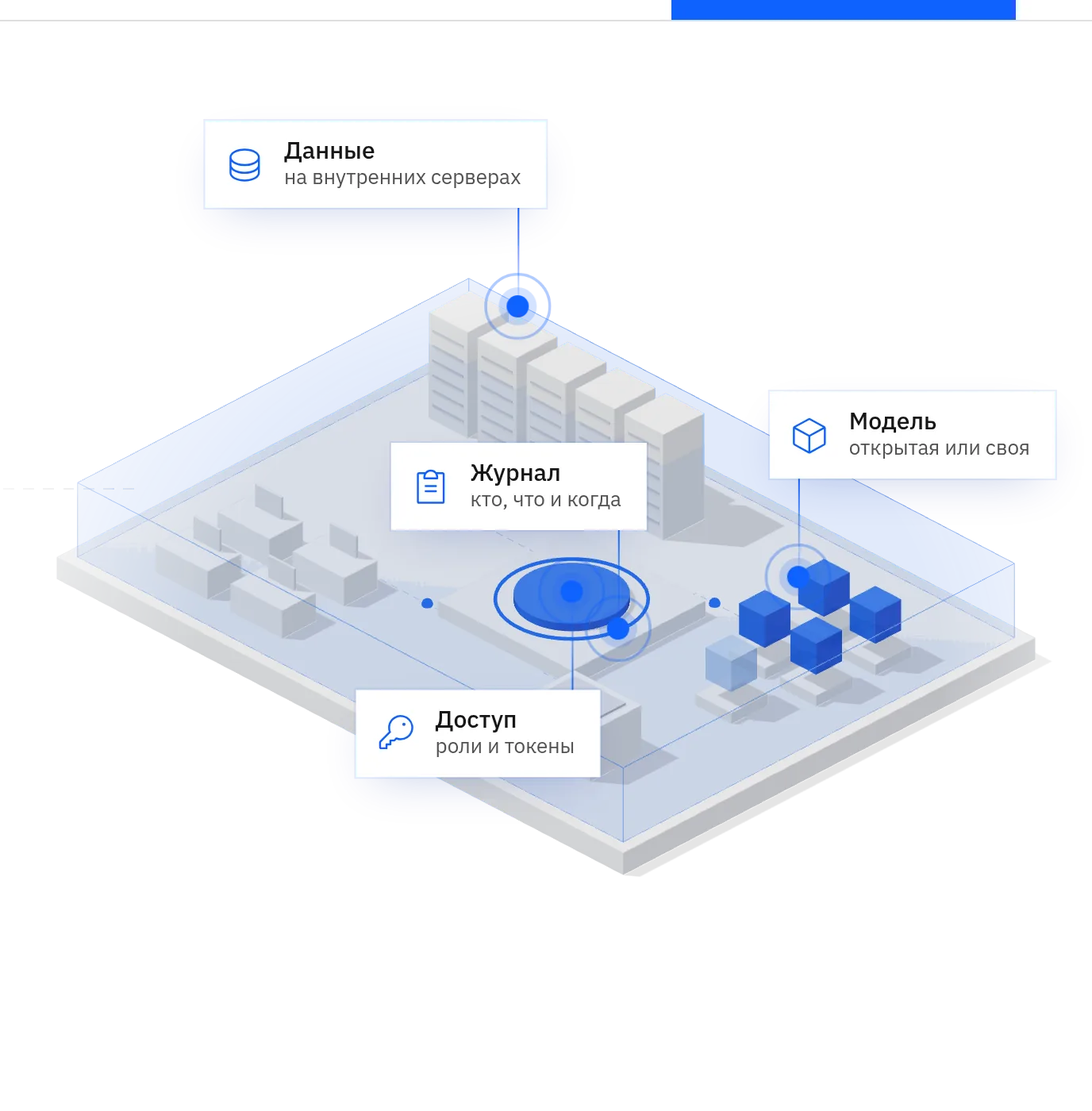
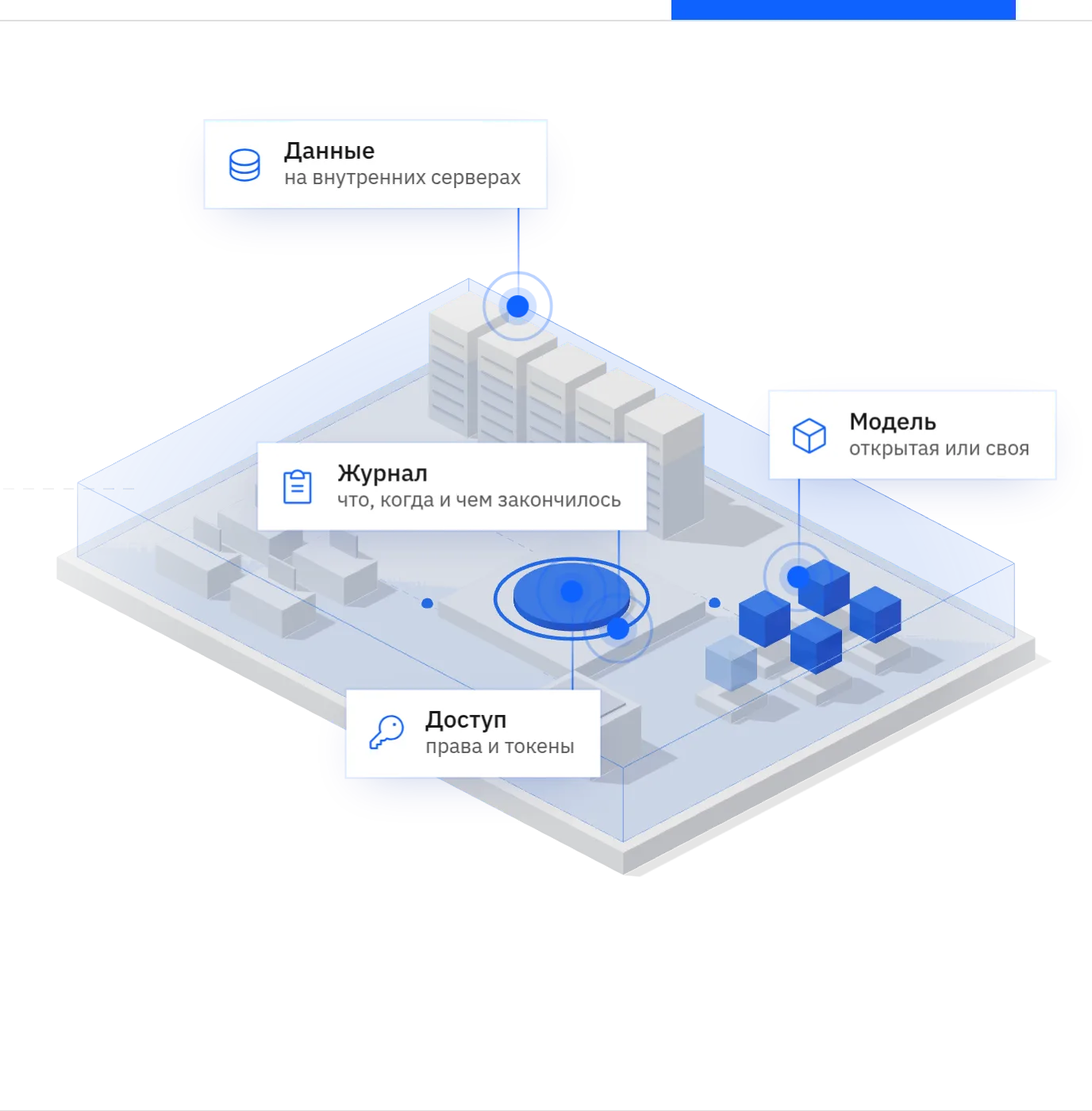
/it под запуск в декабре, оглавление, ссылки с главной

diff --git a/it.html b/it.html
@@ -37,19 +37,29 @@
     <p class="crumb"><a href="index.html">Главная</a> / Для ИТ и безопасности</p>
     <div class="txt">
     <h1>Атриум для ИТ и безопасности</h1>
-    <p class="sub">Как устроен Атриум, что со службой безопасности и когда будут документы для закупки. У каждого пункта статус: есть, в работе или план со сроком.</p>
+    <p class="sub">Как устроен Атриум, что со службой безопасности и когда будут документы для закупки. У каждого пункта статус: есть или срок.</p>
     <div class="ctas"><a class="btn primary" href="mailto:info@atrium-ai.ru">Написать нам</a><a class="btn" href="#tech">Техника и статусы</a></div>
     </div>
     <div class="scene" data-view="all" role="img" aria-label="Схема: внутри периметра компании стоят серверы, Атриум, журнал, модели и рабочие места команд">
     <canvas></canvas><picture class="still"><source media="(max-width:560px)" srcset="assets/scene/it-m.webp"><source media="(max-width:1100px)" srcset="assets/scene/it-t.webp"><img src="assets/scene/it.webp" alt="" loading="lazy"></picture>
     <div class="pin l" data-a="data"><i class="dot"></i><i class="stem"></i><div class="tag"><i class="ic i-data"></i><div><b>Данные</b><span>на внутренних серверах</span></div></div></div>
-    <div class="pin l d" data-a="access"><i class="dot"></i><i class="stem"></i><div class="tag"><i class="ic i-key"></i><div><b>Доступ</b><span>роли и токены</span></div></div></div>
+    <div class="pin l d" data-a="access"><i class="dot"></i><i class="stem"></i><div class="tag"><i class="ic i-key"></i><div><b>Доступ</b><span>права и токены</span></div></div></div>
     <div class="pin" data-a="model"><i class="dot"></i><i class="stem"></i><div class="tag"><i class="ic i-model"></i><div><b>Модель</b><span>открытая или своя</span></div></div></div>
-    <div class="pin d" data-a="trace"><i class="dot"></i><i class="stem"></i><div class="tag"><i class="ic i-log"></i><div><b>Журнал</b><span>кто, что и когда</span></div></div></div>
+    <div class="pin d" data-a="trace"><i class="dot"></i><i class="stem"></i><div class="tag"><i class="ic i-log"></i><div><b>Журнал</b><span>что, когда и чем закончилось</span></div></div></div>
     <p class="cap">Схема</p>
   </div>
   </div>
 </div></div>
+
+<nav class="toc" aria-label="Оглавление страницы"><div class="w"><ul>
+  <li><a href="#how">Как работает</a></li>
+  <li><a href="#tech">Техника</a></li>
+  <li><a href="#servers">Серверы</a></li>
+  <li><a href="#security">Безопасность</a></li>
+  <li><a href="#not-yet">Чего пока нет</a></li>
+  <li><a href="#buy">Закупка</a></li>
+  <li><a href="#faq">Вопросы</a></li>
+</ul></div></nav>
 
 <section id="how" class="w" aria-labelledby="h-how">
   <div class="grid">
@@ -57,7 +67,7 @@
     <div class="sec-body"><p class="lead">Работа с моделями идёт в браузере, без ручной настройки серверов.</p></div>
     <ol class="ladder four">
       <li><h3>Добавить</h3><p>Команда указывает, где лежат файлы модели. Модель появляется в общем списке.</p></li>
-      <li><h3>Проверить</h3><p>При регистрации Атриум проверяет, что файлы модели на месте и читаются. Если нет, модель не зарегистрируется, причина попадёт в журнал. Содержимое файлов не проверяется.</p></li>
+      <li><h3>Проверить</h3><p>При добавлении Атриум проверяет, что файлы модели на месте и читаются. Если нет, модель не добавится. Содержимое файлов не проверяется.</p></li>
       <li><h3>Запустить</h3><p>Запуск и остановка одной кнопкой.</p></li>
       <li><h3>Подключить</h3><p>Команда открывает модели HTTPS-адрес, программы обращаются к нему с токеном. Пока адрес не открыт, модель снаружи недоступна.</p></li>
     </ol>
@@ -72,16 +82,16 @@
       <thead><tr><th>Что</th><th>Как</th><th>Статус</th></tr></thead>
       <tbody>
         <tr><td>Где работает</td><td>В Kubernetes компании, на любых её серверах. Проверено на Linux. После установки интернет не нужен</td><td><span class="st yes">Есть</span></td></tr>
-        <tr><td>Поставка вместе с Kubernetes</td><td>Для серверов, где Kubernetes ещё нет: Атриум и Kubernetes ставятся одним комплектом</td><td><span class="st">IV кв. 2026</span></td></tr>
-        <tr><td>Какие модели</td><td>Предиктивные (прогнозы, оценки, классификация), открытые и собственные. На серверах без видеокарт, с видеокартами в проверке</td><td><span class="st yes">Есть</span></td></tr>
-        <tr><td>Генеративные модели</td><td>Движки в поставке есть, они же дают адрес в формате OpenAI. Прогон на стенде с видеокартой впереди</td><td><span class="st work">В проверке</span></td></tr>
-        <tr><td>Форматы моделей</td><td>scikit-learn проверен. XGBoost, LightGBM, ONNX, PyTorch и TensorFlow проверяются</td><td><span class="st work">В проверке</span></td></tr>
+        <tr><td>Поставка вместе с Kubernetes</td><td>Для серверов, где Kubernetes ещё нет: Атриум и Kubernetes ставятся одним комплектом</td><td><span class="st yes">Есть</span></td></tr>
+        <tr><td>Какие модели</td><td>Предиктивные (прогнозы, оценки, классификация), открытые и собственные. На серверах с видеокартами и без</td><td><span class="st yes">Есть</span></td></tr>
+        <tr><td>Генеративные модели</td><td>Работают на серверах с видеокартами, отвечают по адресу в формате OpenAI</td><td><span class="st yes">Есть</span></td></tr>
+        <tr><td>Форматы моделей</td><td>scikit-learn, XGBoost, LightGBM, ONNX, PyTorch и TensorFlow</td><td><span class="st yes">Есть</span></td></tr>
         <tr><td>Как программы обращаются к модели</td><td>По HTTPS-адресу, который выдаёт Атриум. Обычным HTTPS-запросом (REST)</td><td><span class="st yes">Есть</span></td></tr>
         <tr><td>Кто может обратиться к модели</td><td>Только с токеном доступа, без токена отказ. Лимиты на частоту, число одновременных и размер запросов, список сетей, откуда можно обращаться</td><td><span class="st yes">Есть</span></td></tr>
         <tr><td>Версии модели</td><td>У модели хранятся версии, прежнюю можно развернуть снова</td><td><span class="st yes">Есть</span></td></tr>
-        <tr><td>Вход пользователей</td><td>Встроенный вход, у каждого свои роли</td><td><span class="st yes">Есть</span></td></tr>
-        <tr><td>Каталог пользователей компании</td><td>Вход через AD или LDAP средствами Keycloak, который входит в поставку. Прогон на стенде впереди</td><td><span class="st work">В проверке</span></td></tr>
-        <tr><td>Хранилище файлов моделей</td><td>Сейчас хранилище в составе Атриума. Подключение S3-совместимого хранилища компании</td><td><span class="st work">В работе</span></td></tr>
+        <tr><td>Вход пользователей</td><td>Вход в поставке Атриума, у каждого свои права</td><td><span class="st yes">Есть</span></td></tr>
+        <tr><td>Каталог пользователей компании</td><td>AD или LDAP подключается ко входу Атриума</td><td><span class="st yes">Есть</span></td></tr>
+        <tr><td>Хранилище файлов моделей</td><td>Хранилище в составе Атриума или S3-совместимое хранилище компании</td><td><span class="st yes">Есть</span></td></tr>
         <tr><td>Закрытие модели от прямых обращений</td><td>Модель закрыта от прямых обращений, к ней можно обратиться только через Атриум. Ставится при создании пространства команды</td><td><span class="st yes">Есть</span></td></tr>
         <tr><td>Выгрузка журнала</td><td>Передача в систему мониторинга компании (SIEM)</td><td><span class="st">2027</span></td></tr>
       </tbody>
@@ -109,23 +119,20 @@
         <tr><td>Контроль ИИ-помощников, которые сами выполняют действия</td><td>Права и история для них, как для моделей</td><td><span class="st">2027</span></td></tr>
       </tbody>
     </table>
-    <p class="note">Приказ ФСТЭК России № 117 содержит требования к защите ИИ в государственных информационных системах. Сертификата ФСТЭК у Атриума пока нет.</p>
   </div>
 </section>
 
 <section id="not-yet" class="w" aria-labelledby="h-no">
   <div class="grid">
     <div class="sec-head"><h2 id="h-no">Чего пока нет</h2></div>
-    <div class="sec-body"><p class="lead">Чтобы не было сюрпризов на пилоте.</p></div>
+    <div class="sec-body"><p class="lead">Чтобы не было сюрпризов на пробном запуске.</p></div>
     <ul class="plain">
       <li><b>Откат в один шаг</b><span>Прежнюю версию можно развернуть снова вручную.</span></li>
       <li><b>Сетевая изоляция между пространствами команд</b><span>Сейчас пространства разделены по правам и ресурсам.</span></li>
-      <li><b>Автомасштаб</b><span>Число копий модели задаётся при запуске. Срок не назначен.</span></li>
-      <li><b>Деление видеокарты между моделями</b><span>Одна видеокарта занята одной моделью. Срок не назначен.</span></li>
-      <li><b>Проверенный вход через AD, LDAP</b><span>Схема через Keycloak в проверке на стенде.</span></li>
-      <li><b>Выгрузка журнала в SIEM</b><span>2027.</span></li>
+      <li><b>Автомасштаб</b><span>Число копий модели задаётся при запуске.</span></li>
+      <li><b>Деление видеокарты между моделями</b><span>Одна видеокарта занята одной моделью.</span></li>
       <li><b>Дообучение, поиск по документам, агенты</b><span>Атриум запускает готовые модели.</span></li>
-      <li><b>Оценка качества ответов</b><span>Атриум пока не оценивает качество моделей, его проверяют на задачах заказчика.</span></li>
+      <li><b>Оценка качества ответов</b><span>Атриум пока не оценивает качество моделей, его проверяют на задачах компании.</span></li>
       <li><b>Постоянный ключ для программ</b><span>Сейчас программа получает токен через вход в Атриум.</span></li>
     </ul>
   </div>
@@ -139,10 +146,9 @@
       <thead><tr><th>Что</th><th>Подробности</th><th>Статус</th></tr></thead>
       <tbody>
         <tr><td>Установка</td><td>На серверы компании вместе с её специалистами</td><td><span class="st yes">Есть</span></td></tr>
-        <tr><td>Установка в один шаг</td><td>На закрытые серверы без интернета</td><td><span class="st">IV кв. 2026</span></td></tr>
+        <tr><td>Установка в один шаг</td><td>На закрытые серверы без интернета</td><td><span class="st yes">Есть</span></td></tr>
         <tr><td>Российские ОС</td><td>Работа на российских операционных системах</td><td><span class="st">I кв. 2027</span></td></tr>
         <tr><td>Реестр российского ПО</td><td>Включение в реестр</td><td><span class="st">I кв. 2027</span></td></tr>
-        <tr><td>Сертификат ФСТЭК</td><td></td><td><span class="st">Срок уточняется</span></td></tr>
       </tbody>
     </table>
   </div>
@@ -150,7 +156,7 @@
 
 <section id="who" class="w" aria-labelledby="h-who">
   <div class="grid">
-    <div class="sec-head"><h2 id="h-who">Кто за что отвечает</h2></div>
+    <div class="sec-head"><h2 id="h-who">Кто что делает</h2></div>
     <div class="resp">
       <div><h3>Компания или интегратор</h3><ul><li>Серверы и Kubernetes</li><li>Видеокарты, драйверы, ОС, хранилище</li><li>Программы под задачу</li><li>Выбор и качество моделей</li></ul></div>
       <div><h3>Атриум</h3><ul><li>Запуск моделей, права, журнал</li><li>Обновления и поддержка по почте</li></ul></div>
@@ -162,9 +168,9 @@
   <div class="grid">
     <div class="sec-head"><h2 id="h-faq">Частые вопросы</h2></div>
     <div class="sec-body faq">
-      <details><summary>Можно ли собрать такое самим?</summary><p>Можно. Придётся связать хранилище, серверы, проверку файлов и адреса моделей, написать пространства команд, роли и журнал, а потом обновлять всё это и отвечать за поломки.</p></details>
-      <details><summary>Нужен ли доступ в интернет?</summary><p>После установки не нужен: Атриум и модели работают на внутренних серверах. Установка на закрытые серверы пока идёт вместе со специалистами Атриума, в один шаг — IV кв. 2026.</p></details>
-      <details><summary>Как считается цена?</summary><p>Атриум продаётся по годовой лицензии. Цена зависит от числа пользователей и видеокарт, а начать можно с пробного запуска на задаче компании.</p></details>
+      <details><summary>Можно ли собрать такое самим?</summary><p>Можно. Придётся связать хранилище, серверы, проверку файлов и адреса моделей, написать пространства команд, права и журнал, а потом самим выпускать обновления и исправлять ошибки.</p></details>
+      <details><summary>Нужен ли доступ в интернет?</summary><p>После установки не нужен: Атриум и модели работают на внутренних серверах. На закрытые серверы Атриум ставится в один шаг.</p></details>
+      <details><summary>Как считается цена?</summary><p>Атриум продаётся по годовой лицензии. Цена зависит от числа пользователей и видеокарт, а начать можно с пробного запуска на задаче компании. Обновления и поддержка по почте входят в лицензию.</p></details>
     </div>
   </div>
 </section>
@@ -172,7 +178,7 @@
 <section id="start" class="start" aria-labelledby="h-start">
   <div class="w"><div class="grid">
     <div class="sec-head"><h2 id="h-start">Вопросы службы безопасности</h2></div>
-    <div class="sec-body"><p class="lead">Достаточно описать, какие модели нужны и где они должны работать. Ответ в течение рабочего дня.</p></div>
+    <div class="sec-body"><p class="lead">Достаточно описать, какие модели нужны и где они должны работать.</p></div>
     <div class="cta-row"><a class="btn primary" href="mailto:info@atrium-ai.ru">Написать нам</a><a class="mail" href="mailto:info@atrium-ai.ru">info@atrium-ai.ru</a></div>
   </div></div>
 </section>

diff --git a/index.html b/index.html
@@ -80,8 +80,8 @@
   <div class="grid">
     <div class="sec-head"><h2 id="h-roles">Кому подойдёт</h2></div>
     <div class="sec-body roles">
-      <div class="role"><h3>ИТ-директору</h3><p><b>Пилот доходит до работы.</b> Модели запускаются на внутренних серверах по одному порядку для всех команд. ИТ не настраивает сервер под каждый проект и видит все модели компании в одном списке. У каждой команды своя квота ресурсов.</p></div>
-      <div class="role"><h3>Службе безопасности</h3><p><b>Доступом управляет компания.</b> Модели и данные остаются на внутренних серверах. Компания решает, кто входит, какие у кого права, какие программы обращаются к модели и откуда. Журнал помогает разобрать инцидент: какая операция, когда, с какой версией модели и чем закончилась.</p></div>
+      <div class="role"><h3>ИТ-директору</h3><div><p><b>Пилот доходит до работы.</b> Модели запускаются на внутренних серверах по одному порядку для всех команд. ИТ не настраивает сервер под каждый проект и видит все модели компании в одном списке. У каждой команды своя квота ресурсов.</p><a class="more" href="it.html#tech">Подробнее</a></div></div>
+      <div class="role"><h3>Службе безопасности</h3><div><p><b>Доступом управляет компания.</b> Модели и данные остаются на внутренних серверах. Компания решает, кто входит, какие у кого права, какие программы обращаются к модели и откуда. Журнал помогает разобрать инцидент: какая операция, когда, с какой версией модели и чем закончилась.</p><a class="more" href="it.html#security">Подробнее</a></div></div>
       <div class="role"><h3>Руководителю направления машинного обучения</h3><p><b>Модель доходит до работы без очереди в ИТ.</b> Команда сама добавляет модель из браузера, запускает её и получает адрес для программ компании. Прежние версии модели сохраняются, любую можно развернуть снова.</p></div>
       <div class="role"><h3>Производителям серверов</h3><div><p><b>Сервер, на котором модели работают с первого дня.</b> Атриум ставится на сервер до поставки. Заказчик сам выбирает модели: открытые и собственные, предиктивные и генеративные.</p><a class="more" href="partners-servers.html">Подробнее</a></div></div>
       <div class="role"><h3>Интеграторам</h3><div><p><b>Готовая основа для проектов в контуре заказчика.</b> Права, журнал и доступ к моделям уже собраны, их не нужно делать заново в каждом проекте. Установка, программы под задачу и первая линия поддержки остаются за интегратором.</p><a class="more" href="partners-integrators.html">Подробнее</a></div></div>

diff --git a/site.css b/site.css
@@ -147,6 +147,11 @@ footer nav a[aria-current]{color:var(--text)}
 .page-hero .scene{grid-column:7/span 6;height:560px;margin:0 calc(-1*var(--gut)) 0 0}
 .page-hero .scene canvas{-webkit-mask-image:radial-gradient(ellipse 62% 64% at 52% 50%,#000 55%,transparent 100%);mask-image:radial-gradient(ellipse 62% 64% at 52% 50%,#000 55%,transparent 100%)}
 .page-hero .cap{display:none}
+.toc{background:var(--bg-2);border-top:1px solid var(--rule);border-bottom:1px solid var(--rule)}
+.toc ul{list-style:none;margin:0;padding:0;display:flex;flex-wrap:wrap;gap:0 32px}
+.toc a{display:inline-flex;align-items:center;min-height:56px;font-size:15px;color:var(--text-2);text-decoration:none;transition:color .15s,box-shadow .15s}
+.toc a:hover{color:var(--accent);box-shadow:inset 0 -2px var(--accent)}
+@media (max-width:640px){.toc ul{gap:0 20px}.toc a{min-height:44px}}
 
 /* периметр: четыре части */
 .parts{grid-column:1/-1;display:grid;grid-template-columns:repeat(4,minmax(0,1fr));gap:0 32px;margin-top:80px}
